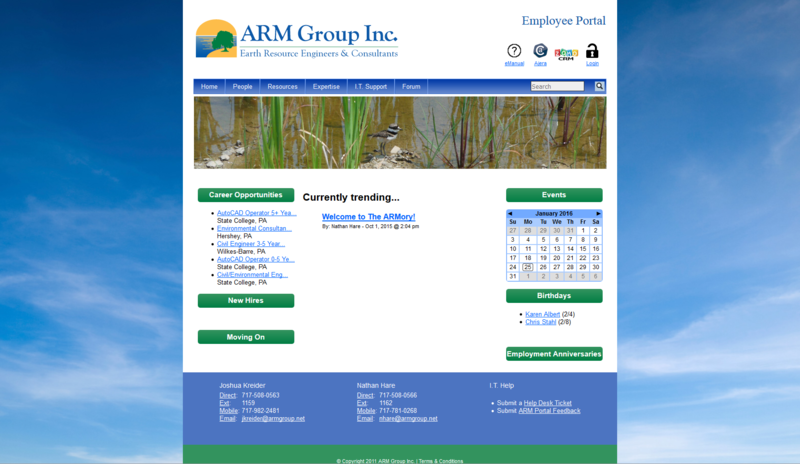
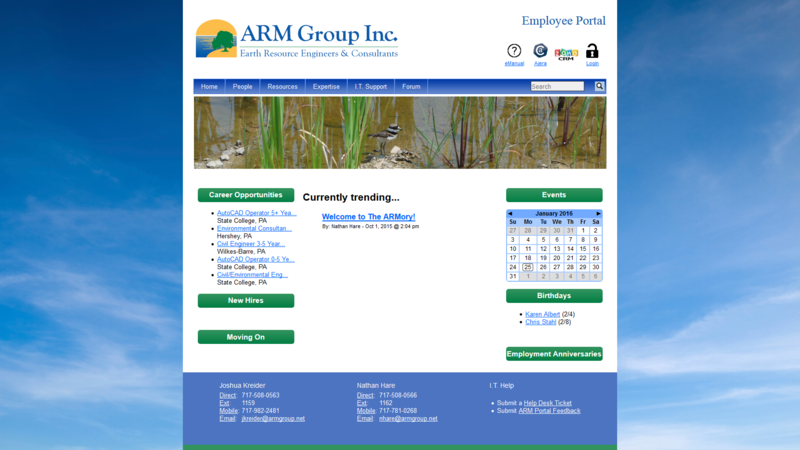
Update screenshots to be the same size and adjust portfolio styling

diff --git a/index.html b/index.html
@@ -60,6 +60,7 @@
             <img src="images/github.png" class="github" title="View on GitHub" />
             View the code
           </a>
+          <br /><br />
           <!--<p class='pic-paragraph'>The Armory is an employee portal that I built for my current day job. It is used by 80+ employees of ARM Group Inc. and offers an announcement feed, a calendar for work events, profiles for each individual employee, a phone list, and more. I do not have a live demo of the site available, as it is only accessible by employees, but most of the code is availble on <a href="https://github.com/treetrnk/employee_portal">GitHub</a>.</p>-->
           <hr />
             <br /><br />

diff --git a/css/main.css b/css/main.css
@@ -48,6 +48,8 @@ nav {
 
 .screenshot {
   max-width: calc(100% - 20px);
+  border: 1px solid #aaa;
+  border-radius: 5px;
   padding: 7px;
 }
 
